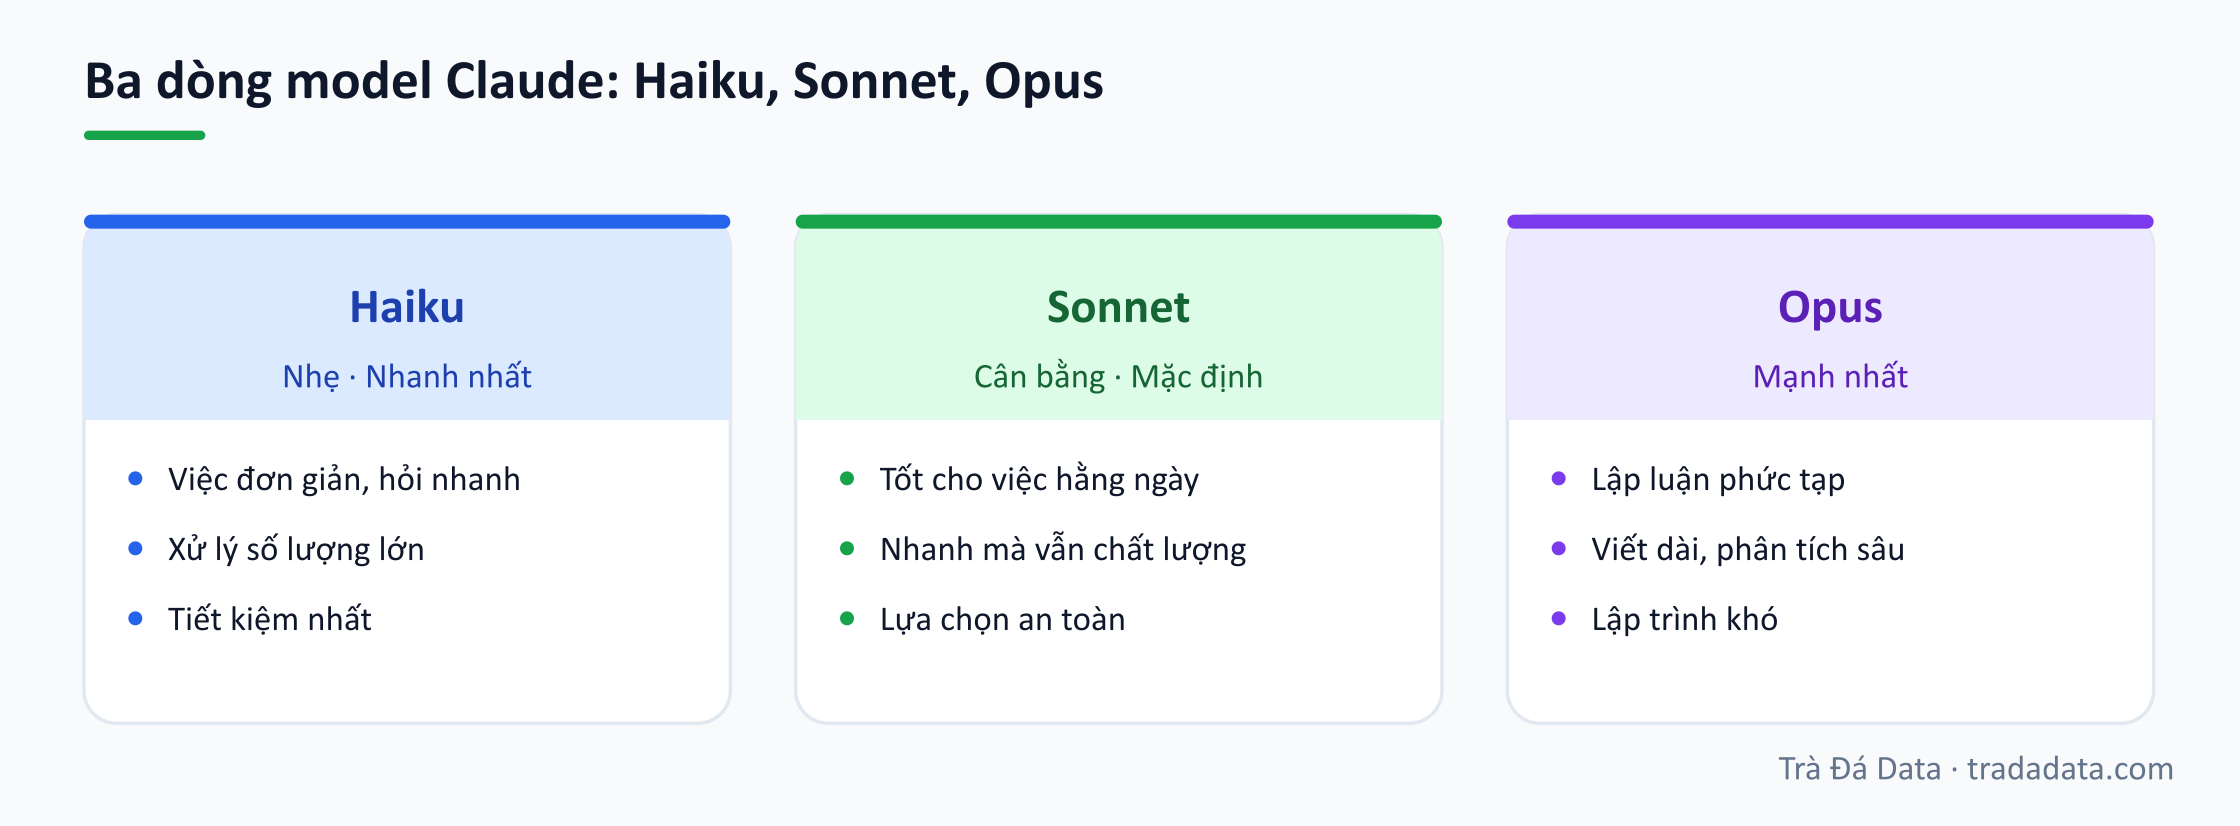
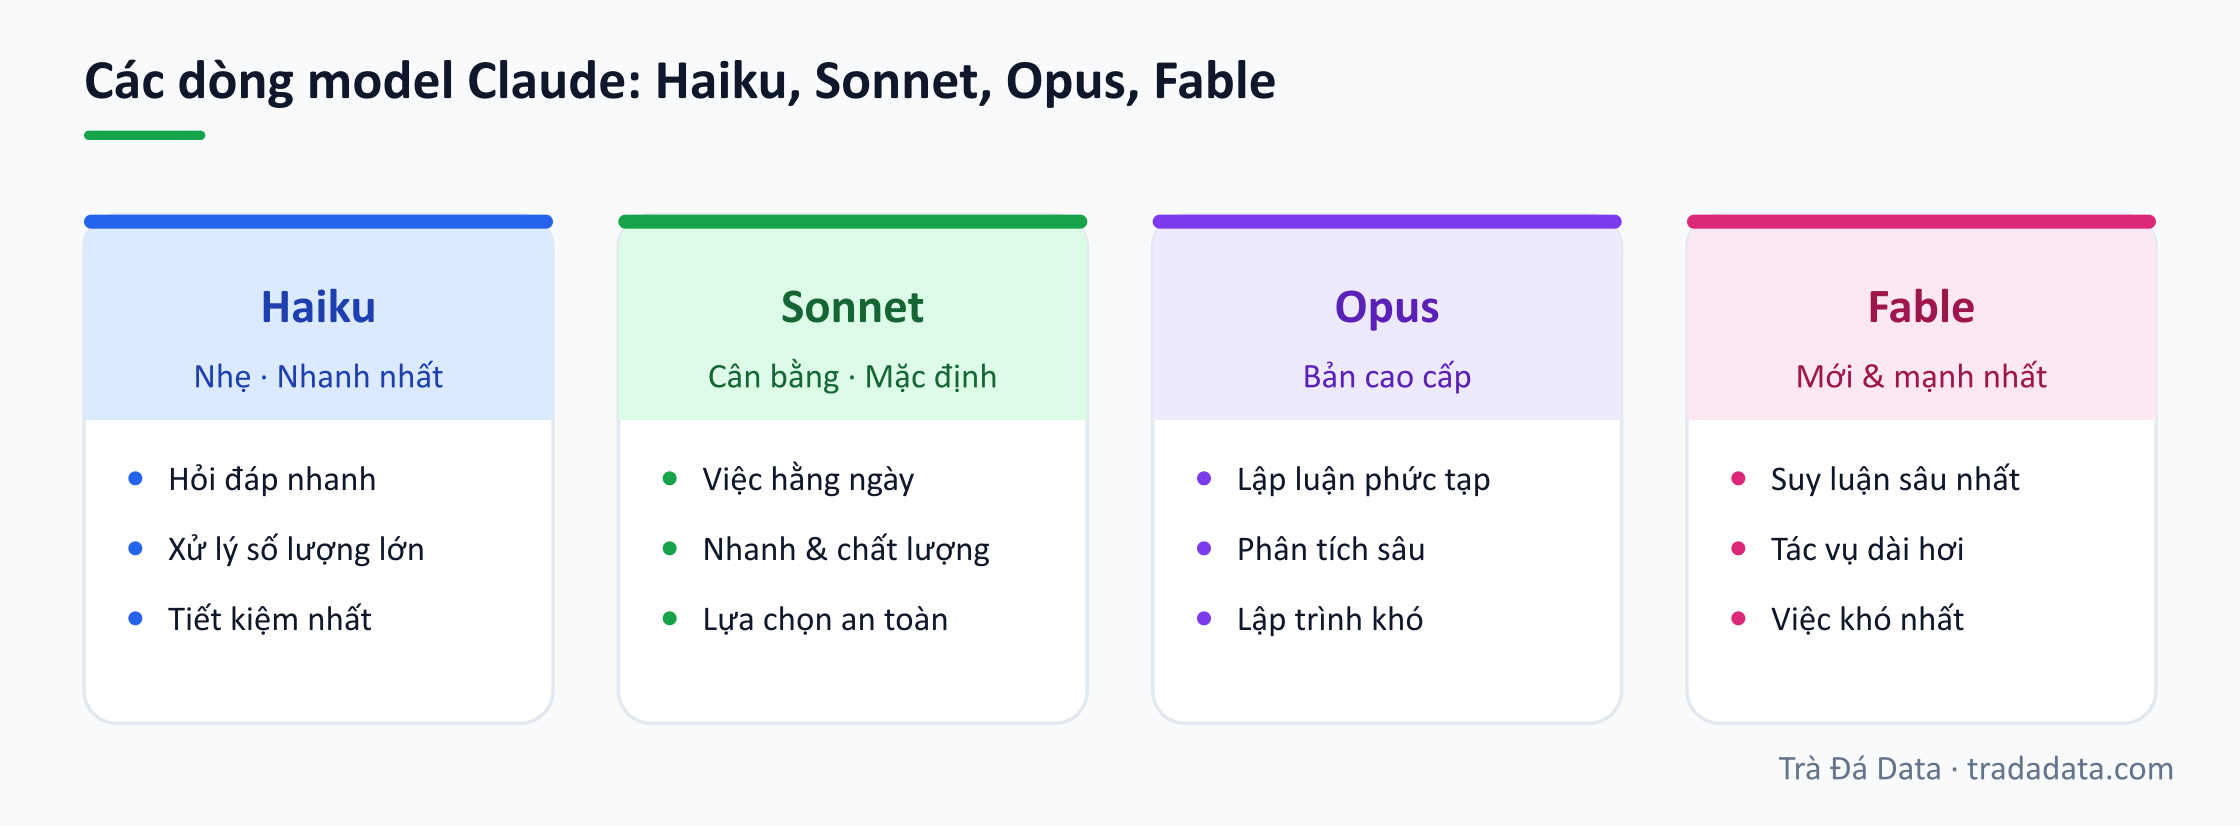
fix(blog): series AI — cap nhat model moi nhat (Fable, GPT-6/5.6)
- Bai Claude la gi: them dong model Fable (moi & manh nhat), 4 the thay 3.
- Bai cai ChatGPT: them muc model hien tai (GPT-6 Astra, ho GPT-5.6).
- Bai so sanh: them cau ve cac dong model hai ben.
Cap nhat draft bang --cap-nhat (van giu trang thai nhap).

diff --git a/noi-dung/ai-1/anh-01.js b/noi-dung/ai-1/anh-01.js
@@ -19,12 +19,13 @@ const anh = [
     },
     {
         ten: 'cl-02-ba-model',
-        tieuDe: 'Ba dòng model Claude: Haiku, Sonnet, Opus',
+        tieuDe: 'Các dòng model Claude: Haiku, Sonnet, Opus, Fable',
         kieu: 'cards',
         the: [
-            { tieu: 'Haiku', mau: 'lam', phu: 'Nhẹ · Nhanh nhất', dong: ['Việc đơn giản, hỏi nhanh', 'Xử lý số lượng lớn', 'Tiết kiệm nhất'] },
-            { tieu: 'Sonnet', mau: 'luc', phu: 'Cân bằng · Mặc định', dong: ['Tốt cho việc hằng ngày', 'Nhanh mà vẫn chất lượng', 'Lựa chọn an toàn'] },
-            { tieu: 'Opus', mau: 'tim', phu: 'Mạnh nhất', dong: ['Lập luận phức tạp', 'Viết dài, phân tích sâu', 'Lập trình khó'] },
+            { tieu: 'Haiku', mau: 'lam', phu: 'Nhẹ · Nhanh nhất', dong: ['Hỏi đáp nhanh', 'Xử lý số lượng lớn', 'Tiết kiệm nhất'] },
+            { tieu: 'Sonnet', mau: 'luc', phu: 'Cân bằng · Mặc định', dong: ['Việc hằng ngày', 'Nhanh & chất lượng', 'Lựa chọn an toàn'] },
+            { tieu: 'Opus', mau: 'tim', phu: 'Bản cao cấp', dong: ['Lập luận phức tạp', 'Phân tích sâu', 'Lập trình khó'] },
+            { tieu: 'Fable', mau: 'hong', phu: 'Mới & mạnh nhất', dong: ['Suy luận sâu nhất', 'Tác vụ dài hơi', 'Việc khó nhất'] },
         ],
     },
     {

diff --git a/noi-dung/ai-1/bia.js b/noi-dung/ai-1/bia.js
@@ -11,7 +11,7 @@ const BIA = [
         eyebrow: 'AI · Claude cơ bản',
         hook: 'Claude?',
         tieuDe: 'Claude là gì? Giải thích dễ hiểu về trợ lý AI của Anthropic',
-        phu: 'Ba dòng model, dùng ở đâu, và ba thứ khiến Claude hơn một hộp chat.',
+        phu: 'Các dòng model, dùng ở đâu, và ba thứ khiến Claude hơn một hộp chat.',
     },
     {
         thuMuc: 'cai-dat-claude',

diff --git a/noi-dung/ai-1/01-claude-la-gi.md b/noi-dung/ai-1/01-claude-la-gi.md
@@ -3,7 +3,7 @@ tieu_de: "Claude là gì? Giải thích dễ hiểu về trợ lý AI của Anth
 slug: "claude-la-gi-tro-ly-ai-cua-anthropic"
 danh_muc: "AI"
 the: ["Claude", "Anthropic", "AI cơ bản"]
-mo_ta: "Claude là trợ lý AI của công ty Anthropic, dùng được trên web, máy tính và điện thoại. Bài này giải thích Claude là gì, ba dòng model Opus/Sonnet/Haiku khác nhau ra sao, dùng ở đâu, và ba thứ khiến Claude vượt xa một hộp chat thông thường: Skills, Connectors, Plugins."
+mo_ta: "Claude là trợ lý AI của công ty Anthropic, dùng được trên web, máy tính và điện thoại. Bài này giải thích Claude là gì, các dòng model hiện nay (Haiku, Sonnet, Opus, Fable) khác nhau ra sao, dùng ở đâu, và ba thứ khiến Claude vượt xa một hộp chat thông thường: Skills, Connectors, Plugins."
 tu_khoa: "Claude la gi, Claude AI, Anthropic, Claude vs ChatGPT, tro ly AI"
 anh_bia: "/images/bai-viet/claude-la-gi/cover.png"
 thu_muc_anh: "claude-la-gi"
@@ -35,17 +35,18 @@ Claude có mặt ở nhiều nơi, cùng một tài khoản dùng được hết
 
 Với đa số người dùng phổ thông, **web** và **app máy tính** là hai nơi bạn sẽ ở nhiều nhất. Cách cài và đăng nhập cụ thể nằm ở bài kế: [Hướng dẫn cài đặt và bắt đầu với Claude](/blog/huong-dan-cai-dat-va-bat-dau-voi-claude).
 
-## Ba dòng model: Opus, Sonnet, Haiku
+## Các dòng model của Claude: Haiku, Sonnet, Opus, Fable
 
-Khi dùng Claude, bạn sẽ thấy có thể chọn giữa vài "model" với tên khác nhau. Anthropic đặt tên theo ba thể thơ, và cách phân biệt rất đơn giản: **càng "nặng" thì càng thông minh nhưng càng chậm và tốn hơn**.
+Khi dùng Claude, bạn có thể chọn giữa vài "model" với tên khác nhau — đây là thế hệ hiện tại (họ Claude 5). Anthropic đặt tên theo các thể loại sáng tác, và cách phân biệt rất đơn giản: **càng "nặng" thì càng thông minh nhưng càng chậm và tốn hơn**.
 
 {{anh:cl-02-ba-model}}
 
 - **Haiku** — nhẹ và nhanh nhất, hợp việc đơn giản, hỏi đáp nhanh, xử lý số lượng lớn.
-- **Sonnet** — cân bằng giữa tốc độ và chất lượng, là lựa chọn mặc định tốt cho hầu hết công việc hằng ngày.
-- **Opus** — mạnh nhất, dành cho việc khó: lập luận phức tạp, viết dài, phân tích sâu, lập trình.
+- **Sonnet** — cân bằng giữa tốc độ và chất lượng, lựa chọn mặc định tốt cho hầu hết công việc hằng ngày.
+- **Opus** — bản cao cấp, dành cho việc khó: lập luận phức tạp, viết dài, phân tích sâu, lập trình.
+- **Fable** — model **mới và mạnh nhất** hiện nay, dành cho những tác vụ đòi hỏi suy luận sâu và dài hơi nhất.
 
-Nếu chưa chắc chọn gì, cứ để mặc định. Khi thấy câu trả lời chưa đủ sâu cho một việc khó, hãy đổi lên model cao hơn.
+Danh sách model thay đổi theo thời gian và tuỳ gói bạn dùng, nên đừng bận tâm nhớ hết tên. Nếu chưa chắc chọn gì, cứ để mặc định; khi thấy câu trả lời chưa đủ sâu cho một việc khó, hãy đổi lên model cao hơn.
 
 ## Claude làm được những gì
 

diff --git a/noi-dung/ai-4/01-cai-dat-chatgpt.md b/noi-dung/ai-4/01-cai-dat-chatgpt.md
@@ -55,6 +55,10 @@ Bạn dùng ChatGPT miễn phí được. Các gói trả phí nới giới hạ
 
 Ngoài ra có **Business** và **Enterprise** cho tổ chức. *Giá và tên gói thay đổi khá thường xuyên — hãy xem mức mới nhất ngay trong phần nâng cấp của ứng dụng.* Lời khuyên: **bắt đầu bằng Free**, chỉ lên Plus khi bạn dùng nhiều và cần model mạnh liên tục.
 
+## Các model hiện tại
+
+Giống Claude, ChatGPT có nhiều model xếp theo mức mạnh–nhanh. Tính đến tháng 9/2026, model **mới và mạnh nhất là GPT-6 Astra** (dành cho các gói trả phí Plus/Pro trở lên), bên cạnh họ **GPT-5.6** — trong đó bản **Luna** nhanh, rẻ và là mặc định cho gói Free. Danh sách này đổi khá thường xuyên, nên đừng bận tâm nhớ hết tên: cứ để mặc định, khi cần mạnh hơn thì đổi lên bản cao hơn ngay tại ô chọn model.
+
 ## Làm quen giao diện
 
 - **Ô chat ở giữa** — gõ yêu cầu, càng rõ càng tốt.

diff --git a/noi-dung/ai-4/03-so-sanh.md b/noi-dung/ai-4/03-so-sanh.md
@@ -18,6 +18,8 @@ trang_thai: "draft"
 
 Cần nói ngay: đây là những xu hướng *thường được người dùng ghi nhận*, không phải chân lý cố định — cả hai bên ra model mới liên tục và thế mạnh có thể đổi chỗ theo thời gian.
 
+Cả hai đều có **nhiều dòng model** xếp theo mức mạnh–nhanh và cập nhật rất nhanh: Claude có Haiku, Sonnet, Opus và **Fable** (mới nhất, mạnh nhất); ChatGPT có họ **GPT-5.6** và **GPT-6 Astra**. Đừng chọn theo tên một model tại một thời điểm — vài tháng là danh sách đã khác.
+
 ## Đặt cạnh nhau theo từng tiêu chí
 
 | Tiêu chí | Claude | ChatGPT |
